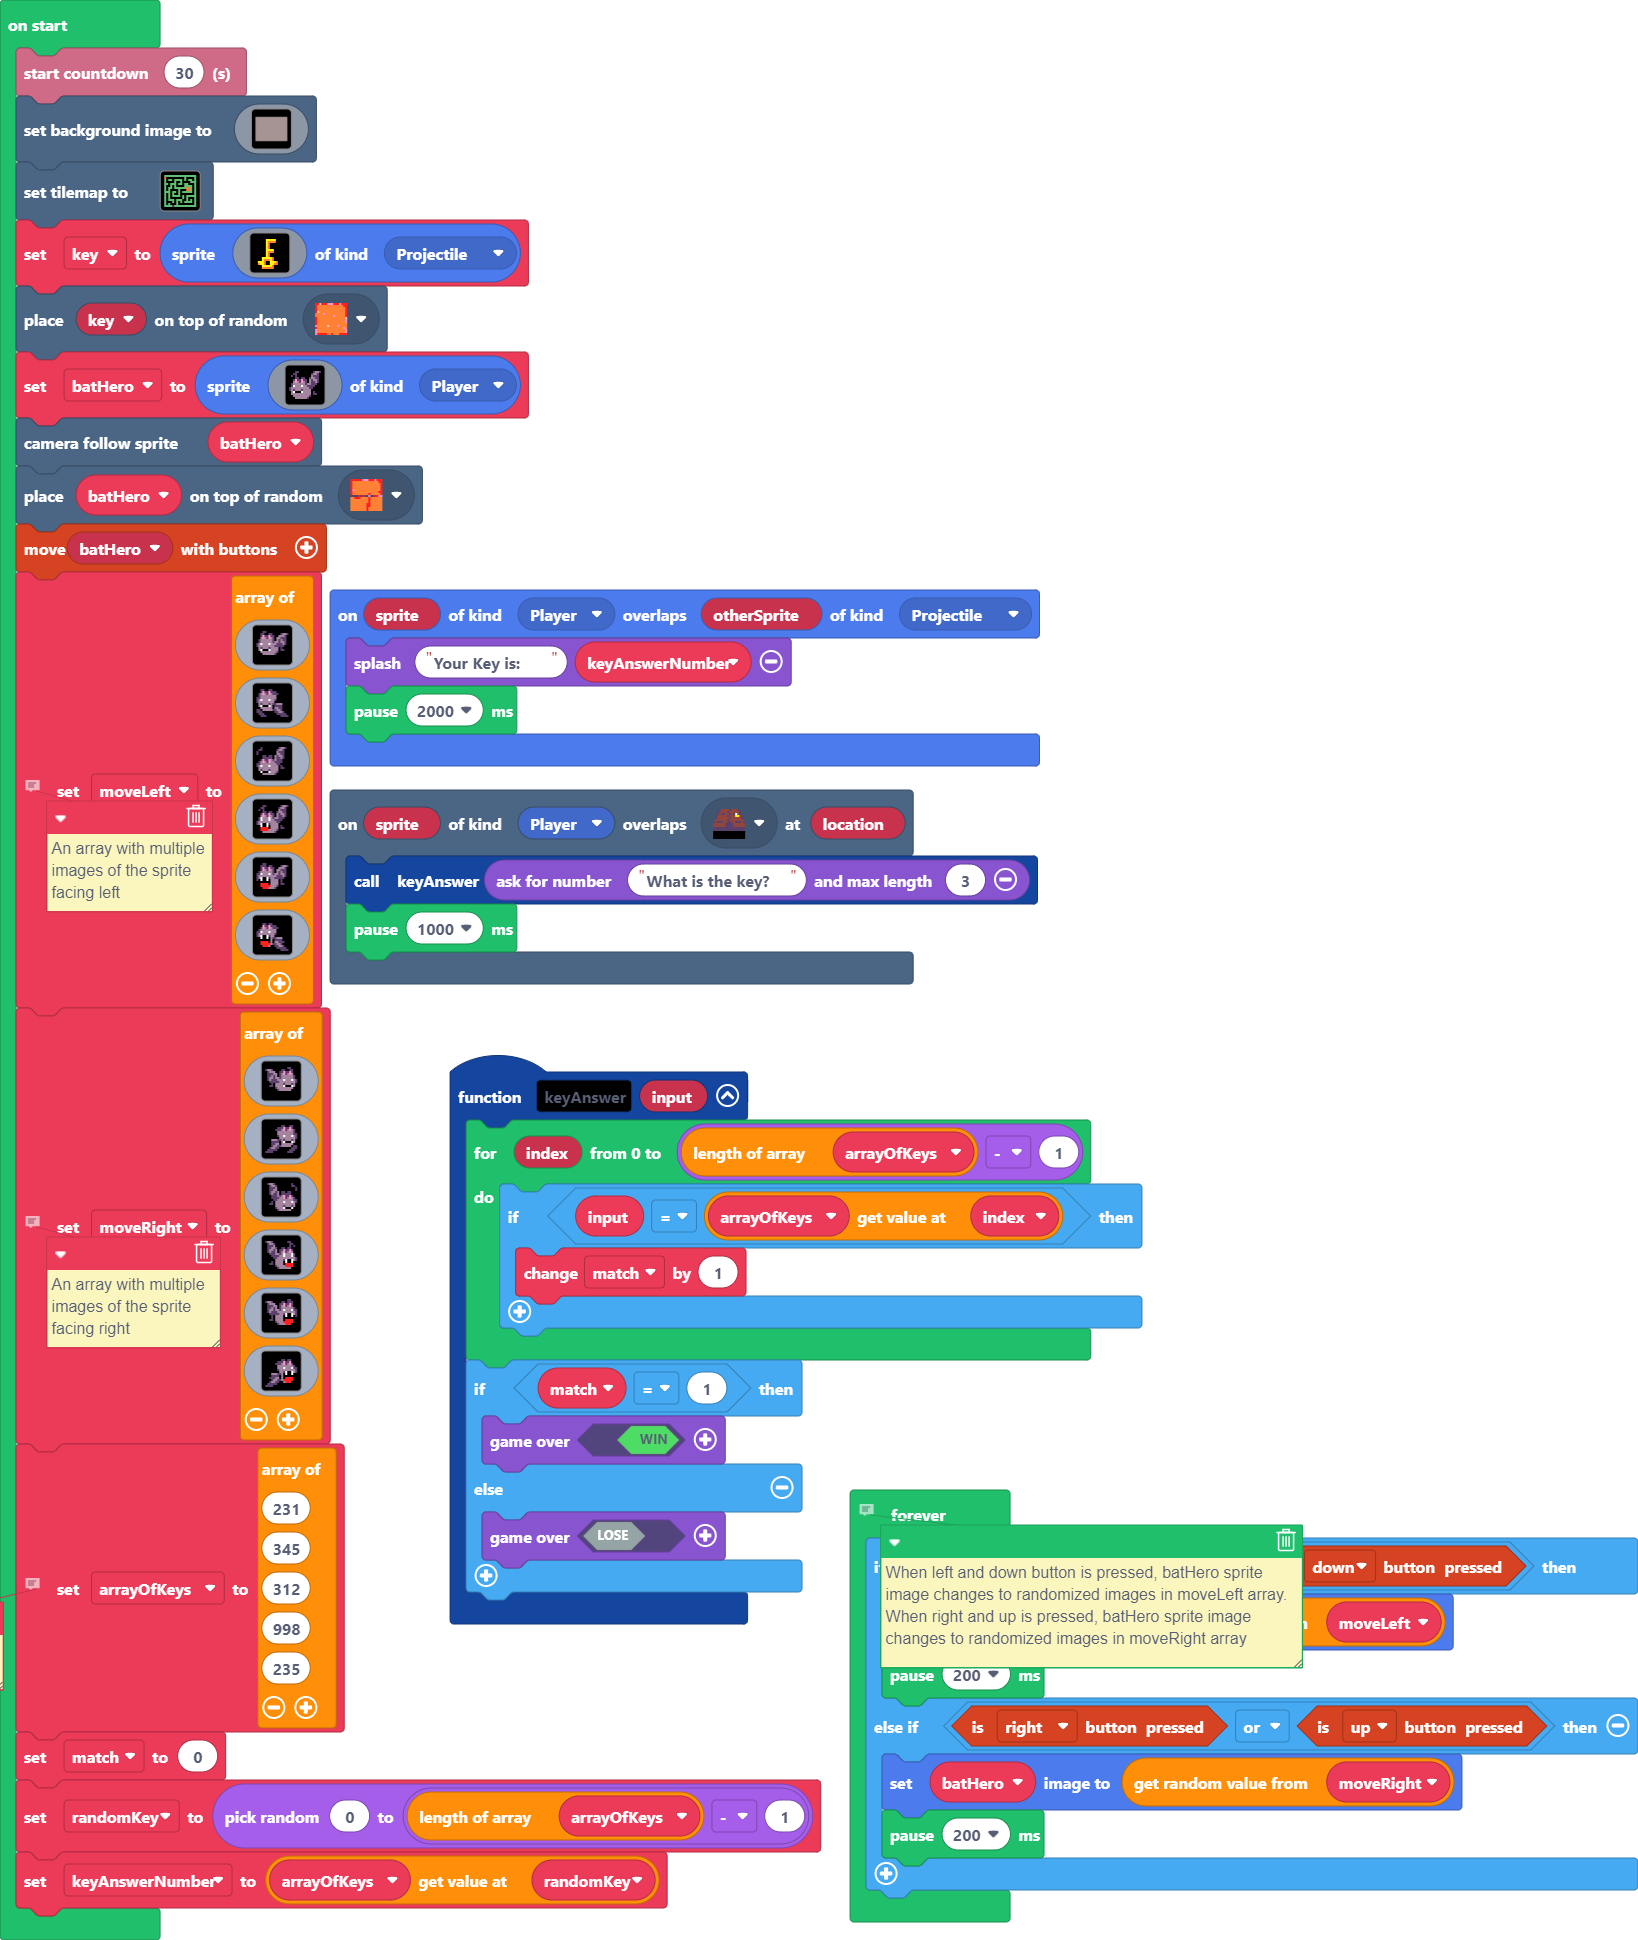
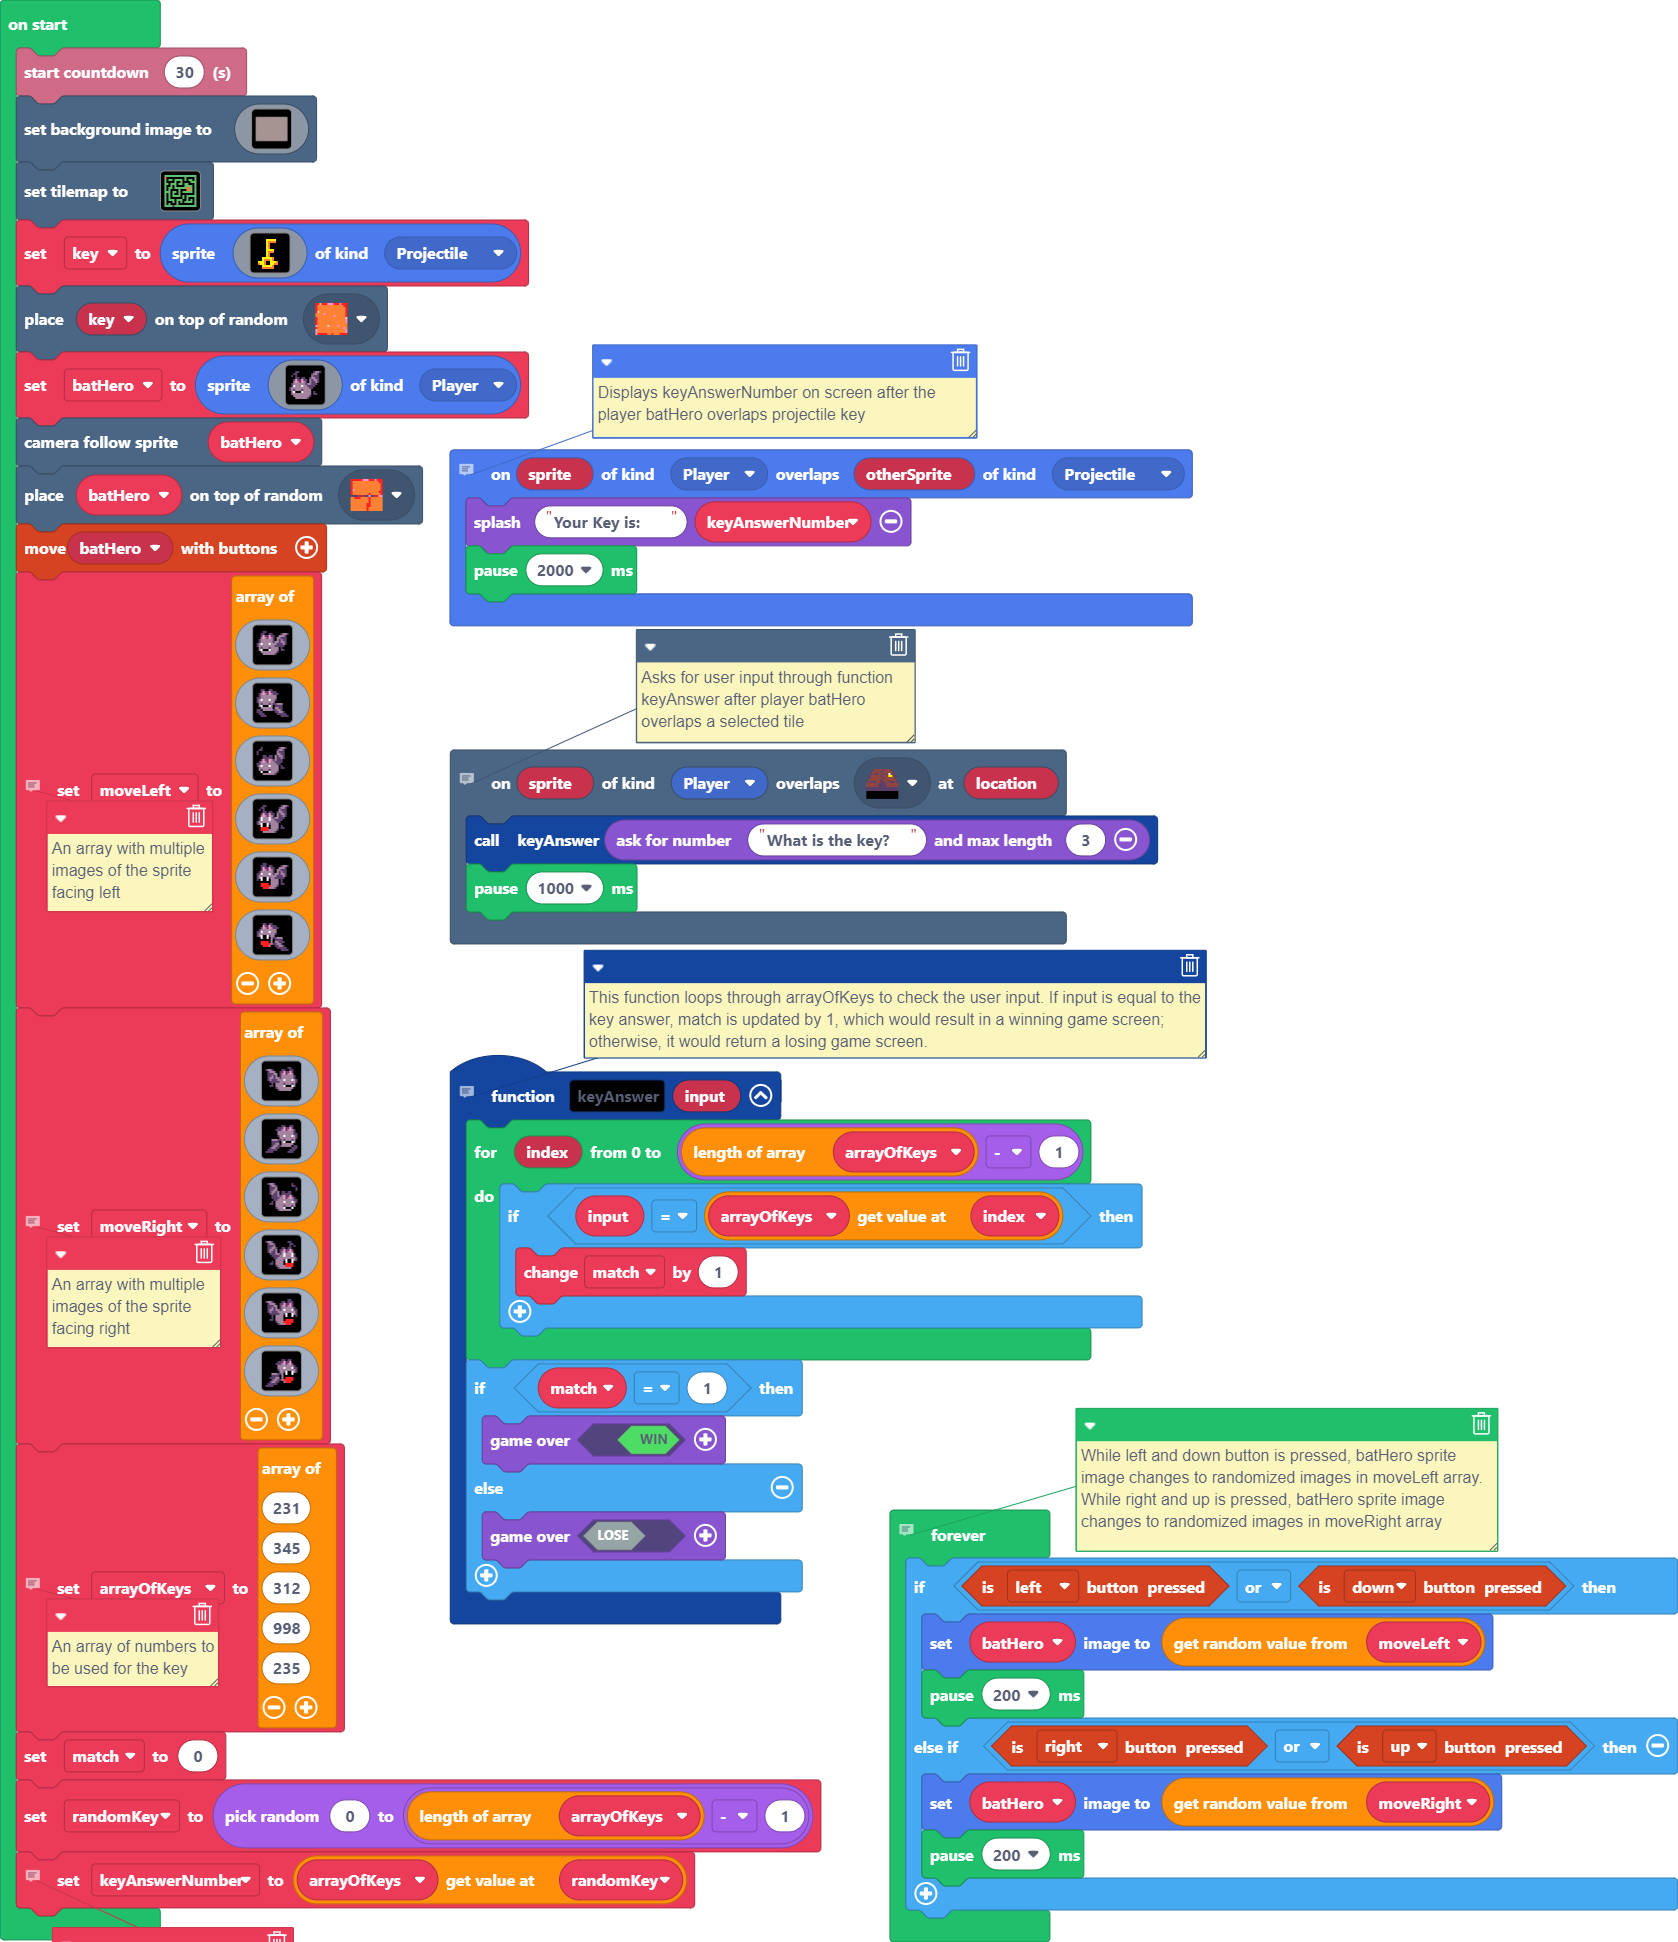
Update main.blocks, main.ts

Changed region(s): [[0.0, 0.0309, 1.0, 1.0]]

diff --git a/main.ts b/main.ts
@@ -1,3 +1,4 @@
+// This function loops through arrayOfKeys to check the user input. If input is equal to the key answer, match is updated by 1, which would result in a winning game screen; otherwise, it would return a losing game screen.
 function keyAnswer (input2: number) {
     for (let index = 0; index <= arrayOfKeys.length - 1; index++) {
         if (input2 == arrayOfKeys[index]) {
@@ -10,10 +11,12 @@ function keyAnswer (input2: number) {
         game.over(false)
     }
 }
+// Asks for user input through function keyAnswer after player batHero overlaps a selected tile
 scene.onOverlapTile(SpriteKind.Player, assets.tile`myTile7`, function (sprite, location) {
     keyAnswer(game.askForNumber("What is the key?", 3))
     pause(1000)
 })
+// Displays keyAnswerNumber on screen after the player batHero overlaps projectile key
 sprites.onOverlap(SpriteKind.Player, SpriteKind.Projectile, function (sprite, otherSprite) {
     game.splash("Your Key is: ", keyAnswerNumber)
     pause(2000)
@@ -417,8 +420,9 @@ arrayOfKeys = [
 ]
 match = 0
 let randomKey = randint(0, arrayOfKeys.length - 1)
+// Selects a random number from list arrayOfKeys using randomKey variable
 keyAnswerNumber = arrayOfKeys[randomKey]
-// When left and down button is pressed, batHero sprite image changes to randomized images in moveLeft array. When right and up is pressed, batHero sprite image changes to randomized images in moveRight array
+// While left and down button is pressed, batHero sprite image changes to randomized images in moveLeft array. While right and up is pressed, batHero sprite image changes to randomized images in moveRight array
 forever(function () {
     if (controller.left.isPressed() || controller.down.isPressed()) {
         batHero.setImage(moveLeft._pickRandom())
